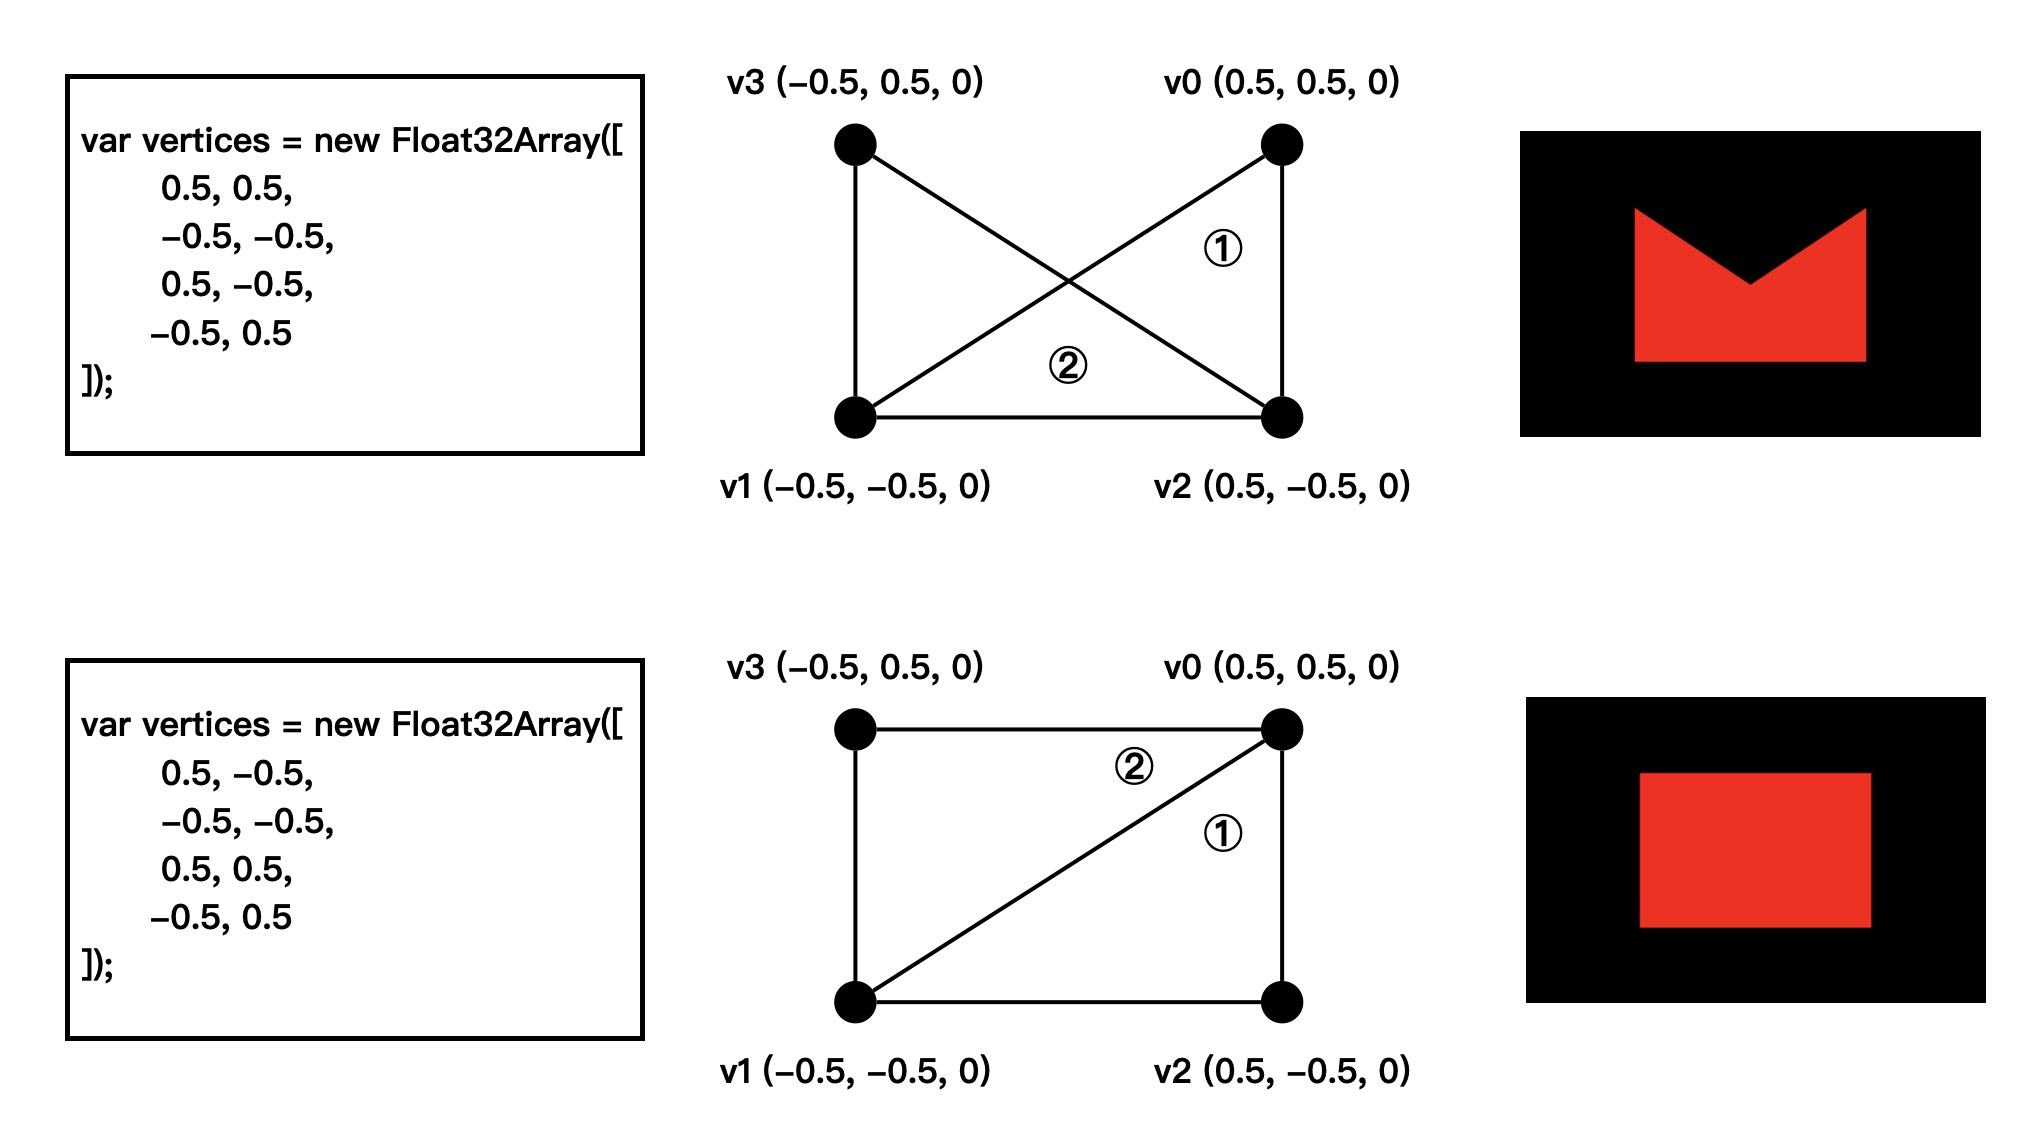
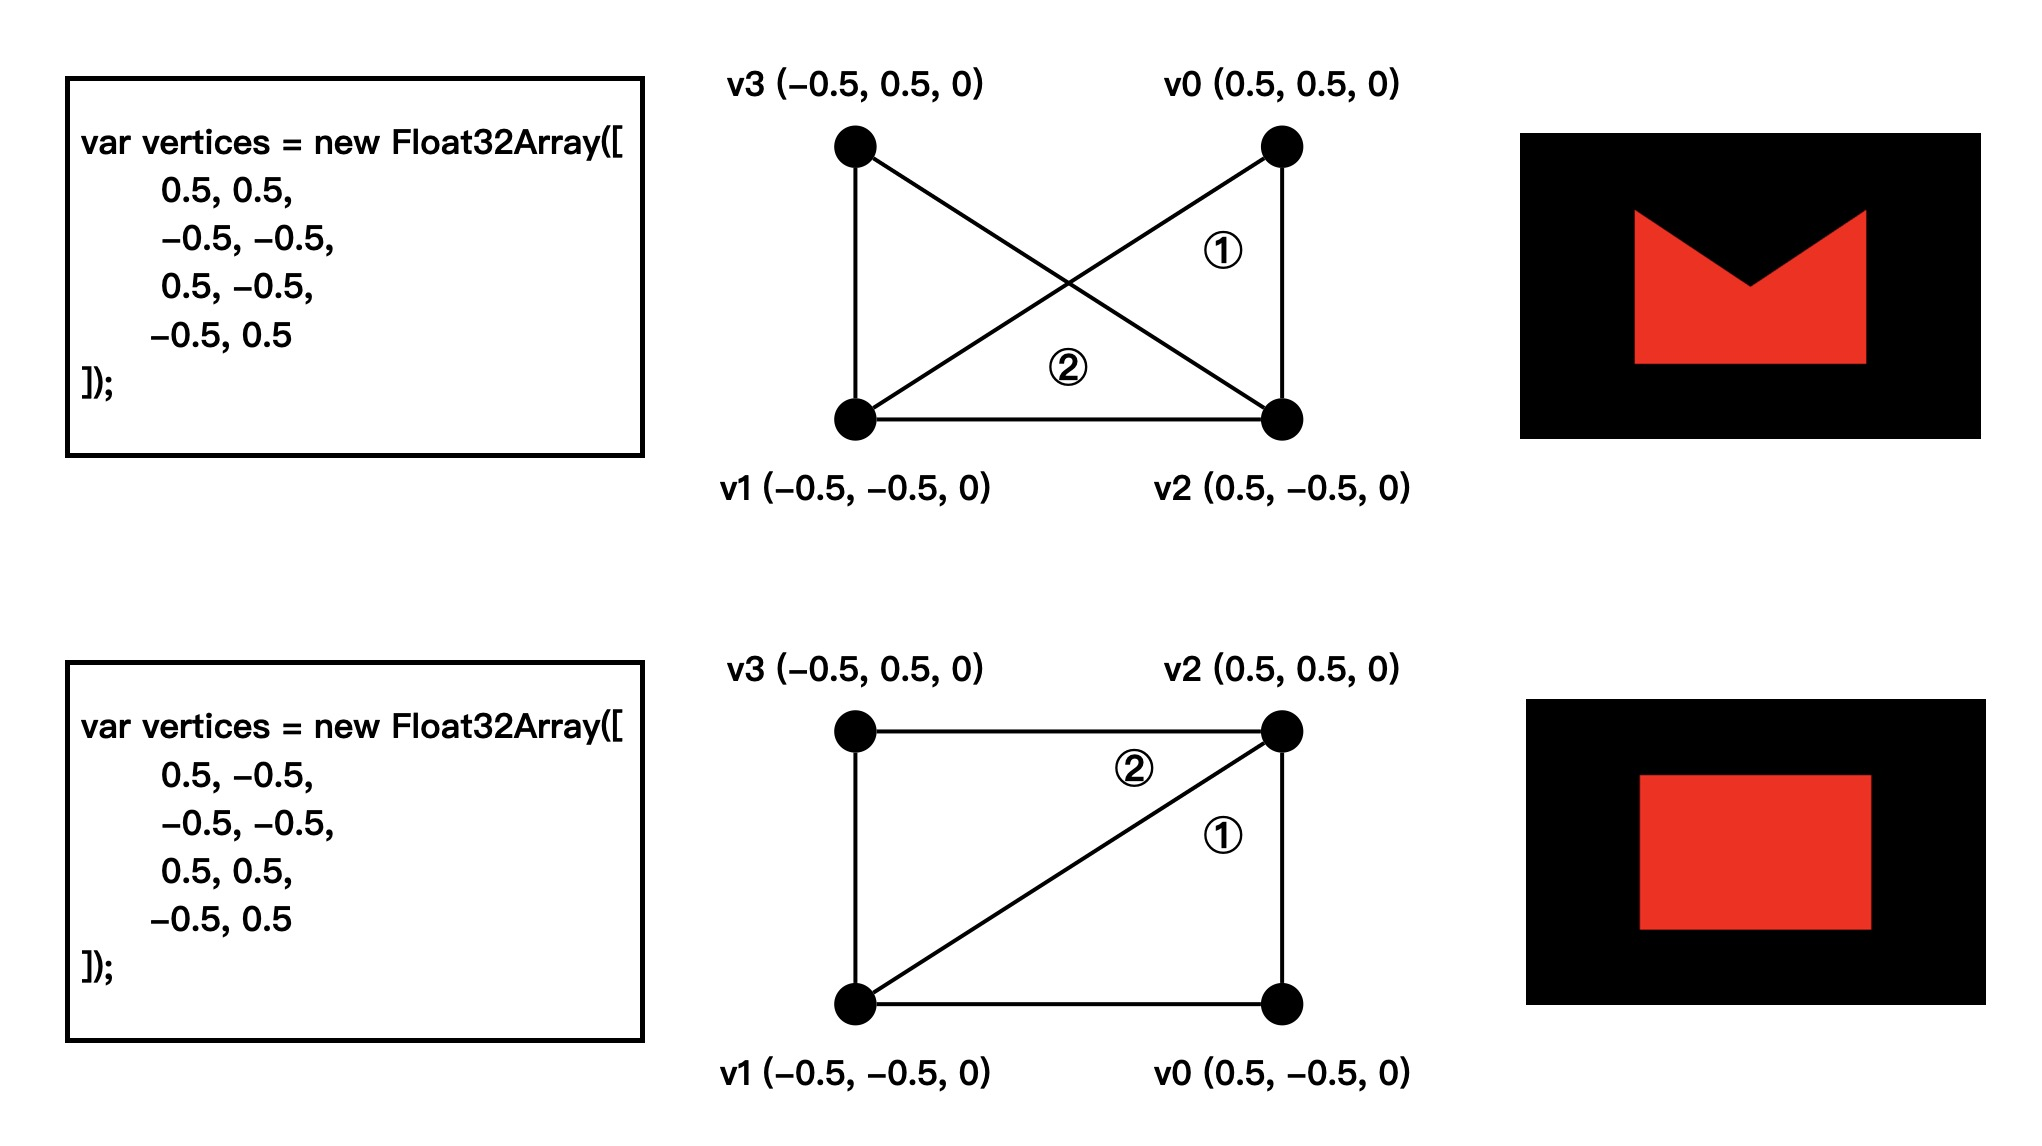
feat: 更新说明

diff --git a/book/lesson10/triangle-fan.html b/book/lesson10/triangle-fan.html
@@ -1,0 +1,71 @@
+<!DOCTYPE html>
+<html lang="en">
+
+<head>
+    <meta charset="UTF-8">
+    <meta http-equiv="X-UA-Compatible" content="IE=edge">
+    <meta name="viewport" content="width=device-width, initial-scale=1.0">
+    <script src="../utils/initShaders.js"></script>
+    <title>WebGL lesson5</title>
+</head>
+
+<body>
+    <canvas id="canvas" width="600" height="400" />
+
+    <!-- 顶点着色器 -->
+    <script id="shader-vs" type="x-shader/x-vertex">
+    attribute vec4 a_Position;
+    void main() {
+        gl_Position = a_Position;
+    }    
+    </script>
+
+    <!-- 片元着色器 -->
+    <script id="shader-fs" type="x-shader/x-fragment">
+    void main() {
+        gl_FragColor = vec4(1.0, 0.0, 0.0, 1.0);
+    }    
+    </script>
+
+    <script type="text/javascript">
+        const canvas = document.getElementById('canvas');
+        const gl = canvas.getContext('webgl');
+
+        const vShader = document.getElementById('shader-vs').innerHTML;
+        const fShader = document.getElementById('shader-fs').innerHTML;
+
+        // 初始化着色器
+        initShaders(gl, vShader, fShader);
+        gl.clearColor(0.0, 0.0, 0.0, 1.0);
+        gl.clear(gl.COLOR_BUFFER_BIT);
+
+        var vertices = new Float32Array([
+            // 注意顺序。
+            0.5, -0.5,
+            -0.5, -0.5,
+            -0.5, 0.5,
+            0.5, 0.5,
+        ]);
+
+        // 创建缓冲区对象
+        const vertexBuffer = gl.createBuffer();
+
+        // 将缓冲区对象绑定到目标
+        gl.bindBuffer(gl.ARRAY_BUFFER, vertexBuffer);
+
+        // 向缓冲区中写入数据
+        gl.bufferData(gl.ARRAY_BUFFER, vertices, gl.STATIC_DRAW);
+
+        const a_Position = gl.getAttribLocation(gl.program, 'a_Position');
+
+        // 将缓冲区对象分配给 a_Position 变量
+        gl.vertexAttribPointer(a_Position, 2, gl.FLOAT, false, 0, 0);
+
+        // 连接 a_Position 变量与分配给它的缓冲区对象
+        gl.enableVertexAttribArray(a_Position);
+
+        gl.drawArrays(gl.TRIANGLE_FAN, 0, 4);
+    </script>
+</body>
+
+</html>

diff --git a/book/lesson10/README.md b/book/lesson10/README.md
@@ -20,7 +20,7 @@ gl.drawArrays 通过第一个参数就可以以不同的方式绘制图形。它
 | 回路 | gl.LINE_LOOP | 一系列连接的线段，绘制在 (v0, v1), (v1, v2), (v2, v3), ...(vn-1, vn), (vn, v0)，相比较上一个它的首尾是相连的 |
 | 三角形 | gl.TRIANGLES | 一系列单独的三角形，绘制在 (v0, v1, v2), (v3, v4, v5) ...，如果点的个数不是3的整数倍，多余的会被忽略 |
 | 三角带 | gl.TRIANGLE_STRIP | 一系列带状的三角形，绘制在 (v0, v1, v2), (v2, v1, v3), (v2, v3, v4) .... , **注意点的顺序**|
-| 三角扇 | gl.TRIANGLE_FAN | 一系列三角形组成的类似扇形的图形，绘制在 (v0, v1, v2), (v0, v2, v3), (v0, v3, v4)... |
+| 三角扇 | gl.TRIANGLE_FAN | 一系列三角形组成的类似扇形的图形，绘制在 (v0, v1, v2), (v0, v2, v3), (v0, v3, v4)... **注意点的顺序** |
 
 通过下面的图我们可以更容易理解：
 
@@ -32,3 +32,7 @@ gl.drawArrays 通过第一个参数就可以以不同的方式绘制图形。它
 例如下面两种坐标绘制出来的图形是不一样的。
 
 <img src="https://github.com/zqiangxu/webgl/blob/main/assets/book/lesson10/triangle-strip.png?raw=true" width="800px"/>
+
+同样的 `gl.TRIAvGLE_FAN` 也需要注意顺序。
+
+<img src="https://github.com/zqiangxu/webgl/blob/main/assets/book/lesson10/triangle-fan.png?raw=true" width="800px"/>
